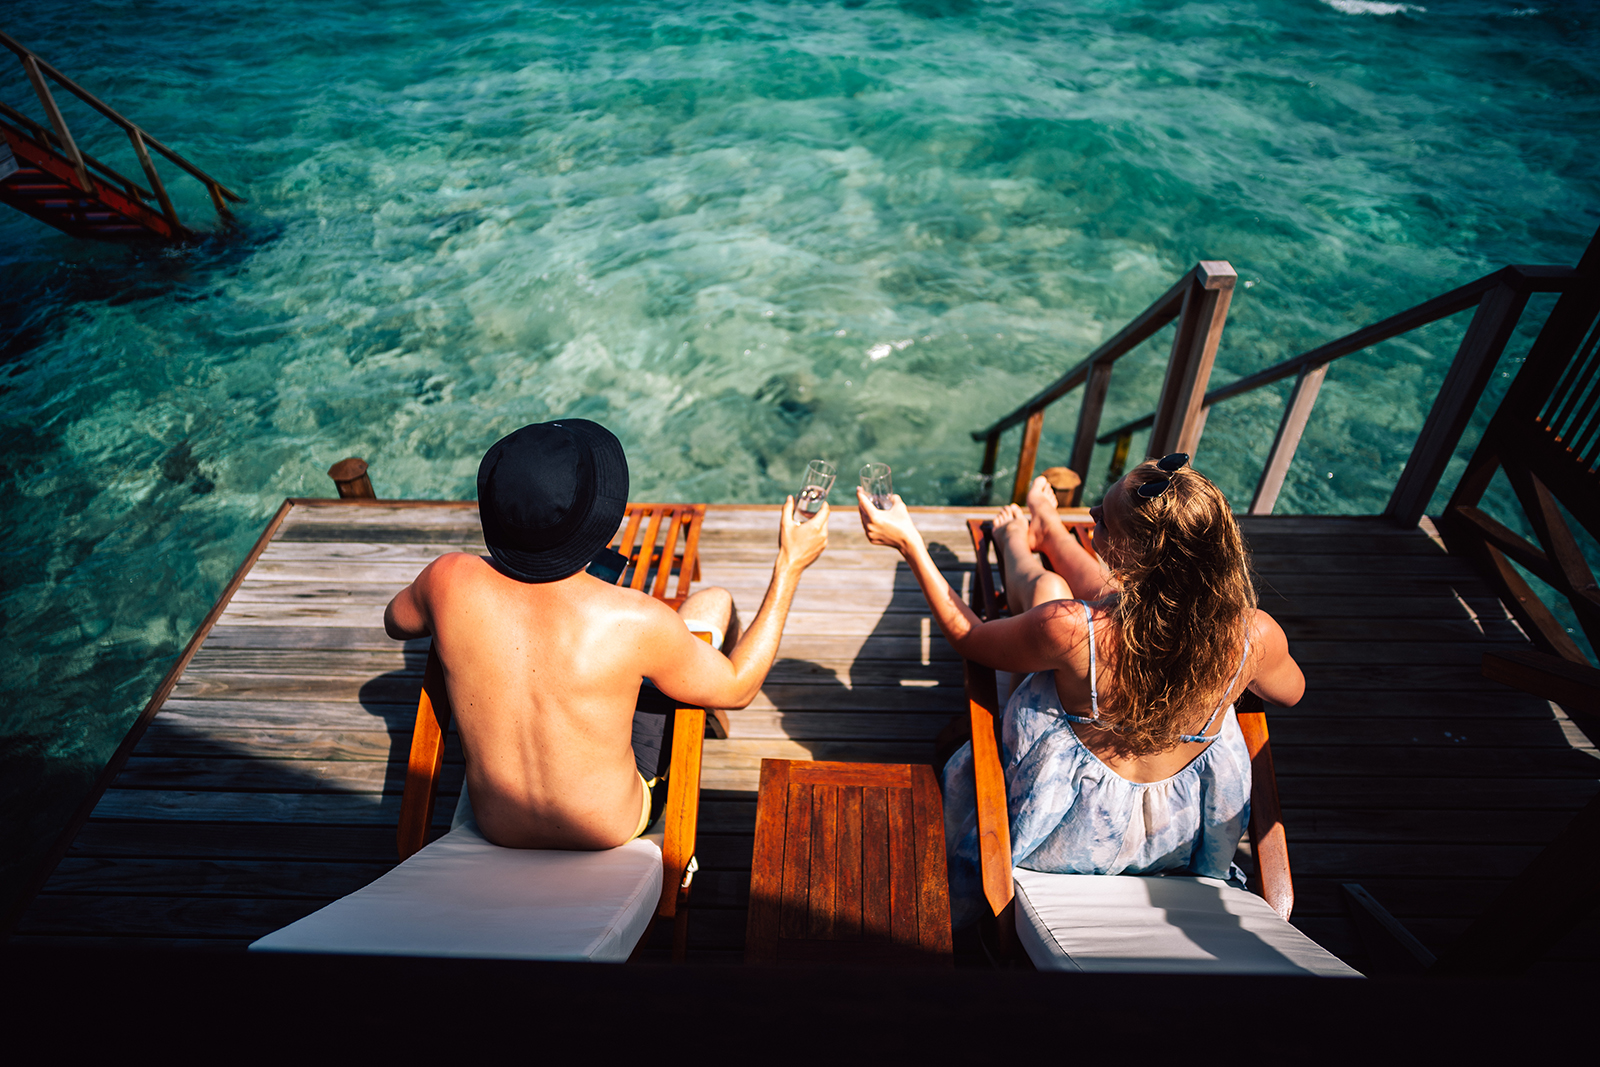
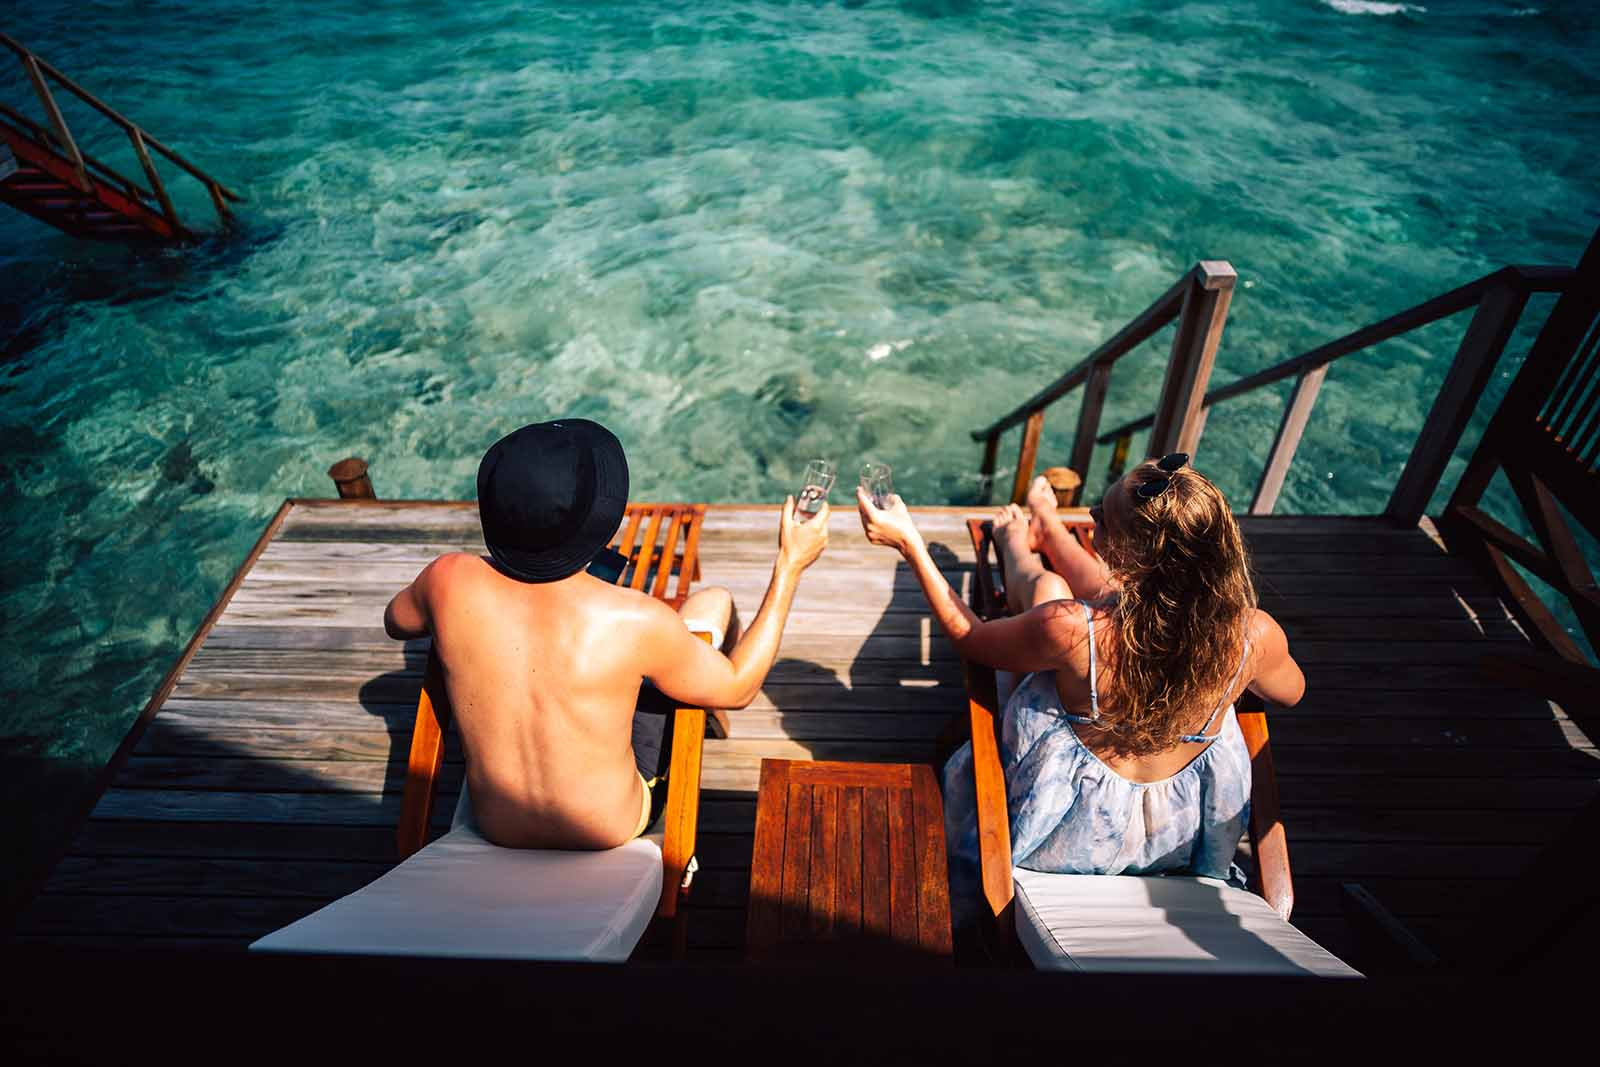
update image

diff --git a/index.html b/index.html
@@ -666,7 +666,7 @@
               <article class="position-relative h-100">
 
                 <div class="post-img position-relative overflow-hidden">
-                  <img src="assets/img/Tour Packages/Cultural-Heritage.png" class="img-fluid"  loading="lazy" alt="" style="width: 100%; height: 240px; object-fit: cover;">
+                  <img src="assets/img/Tour Packages/Cultural-Heritage.jpg" class="img-fluid"  loading="lazy" alt="" style="width: 100%; height: 240px; object-fit: cover;">
                 </div>
                 <div class="meta d-flex align-items-end">
                   <span class="post-date"><span>07</span>Days</span>
@@ -692,7 +692,7 @@
               <article class="position-relative h-100">
 
                 <div class="post-img position-relative overflow-hidden">
-                  <img src="assets/img/Tour Packages/Cultural-Heritage.png" class="img-fluid"  loading="lazy" alt="" style="width: 100%; height: 240px; object-fit: cover;">
+                  <img src="assets/img/Tour Packages/Cultural-Heritage.jpg" class="img-fluid"  loading="lazy" alt="" style="width: 100%; height: 240px; object-fit: cover;">
                 </div>
                 <div class="meta d-flex align-items-end">
                   <span class="post-date"><span>14</span>Days</span>

diff --git a/Packages-cultural_07d.html b/Packages-cultural_07d.html
@@ -309,7 +309,7 @@
                 <div data-aos="fade-up" data-aos-delay="300">
                   <div class="post-item position-relative h-100">
                     <div class="post-img position-relative overflow-hidden">
-                      <img src="assets/img/Tour Packages/Cultural-Heritage.png" class="img-fluid"  loading="lazy" alt="Culture Itineraries 14 Days - Sri Lanka Culture Trip">
+                      <img src="assets/img/Tour Packages/Cultural-Heritage.jpg" class="img-fluid"  loading="lazy" alt="Culture Itineraries 14 Days - Sri Lanka Culture Trip">
                     </div>
                     <div class="post-content d-flex flex-column m-3">
                       <h4 class="post-title">Culture Itineraries 14 Days - Sri Lanka Culture Trip</h4>

diff --git a/Packages-family_14d.html b/Packages-family_14d.html
@@ -349,7 +349,7 @@
                 <div data-aos="fade-up" data-aos-delay="300">
                   <div class="post-item position-relative h-100">
                     <div class="post-img position-relative overflow-hidden">
-                      <img src="assets/img/Tour Packages/Cultural-Heritage.png" class="img-fluid"  loading="lazy" alt="Culture Itineraries 07 Days - Sri Lanka Culture Trip">
+                      <img src="assets/img/Tour Packages/Cultural-Heritage.jpg" class="img-fluid"  loading="lazy" alt="Culture Itineraries 07 Days - Sri Lanka Culture Trip">
                     </div>
                     <div class="post-content d-flex flex-column m-3">
                       <h4 class="post-title">Culture Itineraries 07 Days - Sri Lanka Culture Trip</h4>
